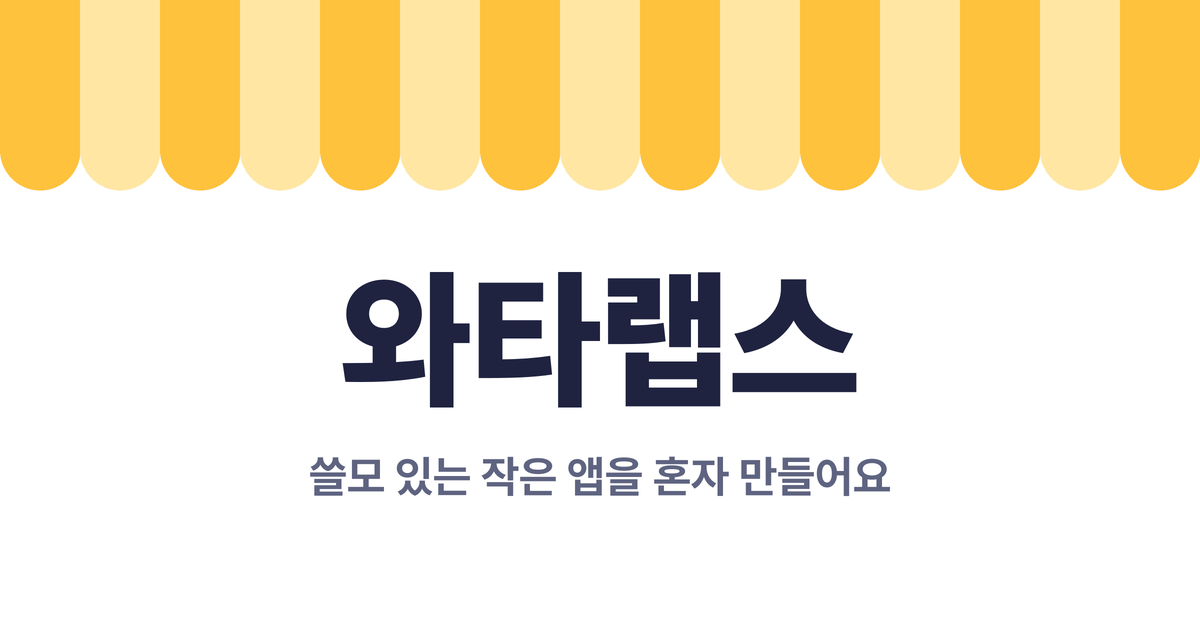
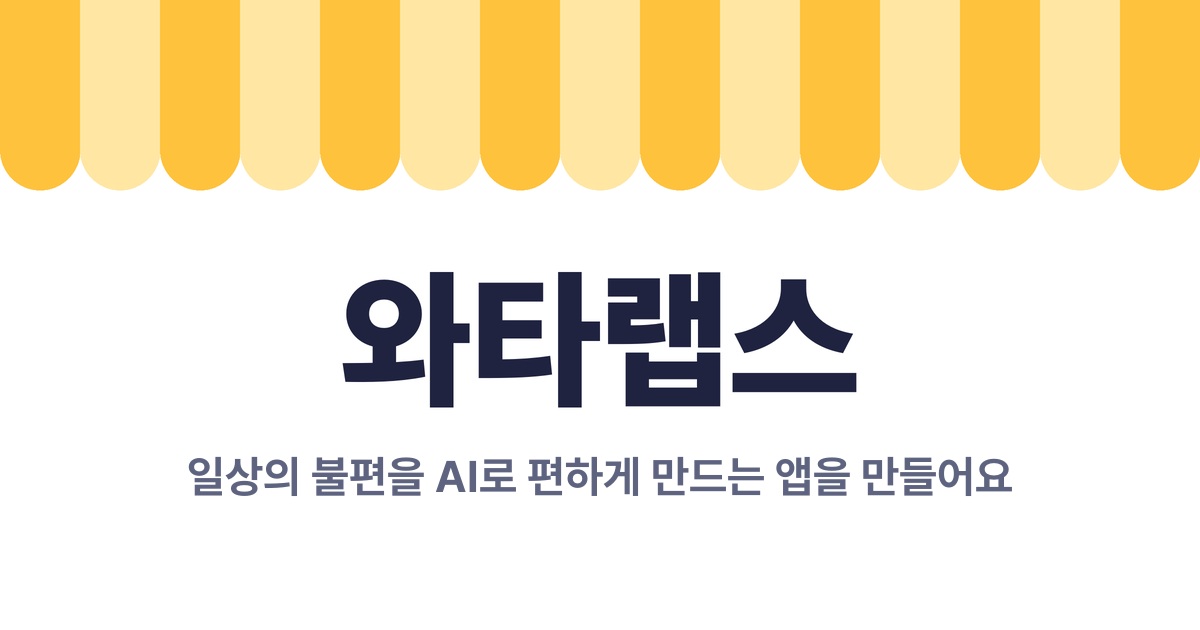
chore(company): 회사 소개에서 맹고 약관·처리방침 링크와 1인 회사 표현 빼기
- 바닥글의 맹고 이용약관·개인정보 처리방침 링크, llms.txt 주요 페이지의 두 링크 삭제(맹고 페이지는 그대로)
- 메타 설명·JSON-LD·llms.txt의 '1인 회사'·'개발자 한 명' 문구 삭제
- og.png 부제 '쓸모 있는 작은 앱을 혼자 만들어요' → '일상의 불편을 AI로 편하게 만드는 앱을 만들어요'
- sitemap lastmod 2026-10-27

Changed region(s): [[0.1542, 0.7238, 0.8633, 0.7841]]

diff --git a/apps/company/index.html b/apps/company/index.html
@@ -4,7 +4,7 @@
   <meta charset="utf-8" />
   <meta name="viewport" content="width=device-width, initial-scale=1, viewport-fit=cover" />
   <title>와타랩스</title>
-  <meta name="description" content="와타랩스는 일상에서 귀찮고 불편한 일을 찾아 AI로 편하게 만드는 앱을 만드는 1인 회사예요. 관심 분야의 소식을 AI로 요약해서 음성 지원해 주는 맹고를 만들어요." />
+  <meta name="description" content="와타랩스는 일상에서 귀찮고 불편한 일을 찾아 AI로 편하게 만드는 앱을 만드는 회사예요. 관심 분야의 소식을 AI로 요약해서 음성 지원해 주는 맹고를 만들어요." />
   <link rel="canonical" href="https://watalabs.com/" />
   <meta property="og:type" content="website" />
   <meta property="og:locale" content="ko_KR" />
@@ -34,7 +34,7 @@
         "url": "https://watalabs.com/",
         "logo": "https://watalabs.com/apple-touch-icon.png",
         "email": "watalabs.help@gmail.com",
-        "description": "일상에서 귀찮고 불편한 일을 찾아 AI로 편하게 만드는 앱을 만드는 1인 회사. 관심 분야의 소식을 AI로 요약해서 음성 지원해 주는 맹고를 만든다."
+        "description": "일상에서 귀찮고 불편한 일을 찾아 AI로 편하게 만드는 앱을 만드는 회사. 관심 분야의 소식을 AI로 요약해서 음성 지원해 주는 맹고를 만든다."
       },
       {
         "@type": "WebSite",
@@ -171,9 +171,6 @@
 
     footer { padding: 32px 0 calc(40px + env(safe-area-inset-bottom)); border-top: 2px solid var(--line); color: var(--sub); font-size: 14px; }
     footer .row { display: flex; flex-wrap: wrap; gap: 8px 20px; align-items: center; justify-content: space-between; }
-    footer nav { display: flex; flex-wrap: wrap; gap: 4px 16px; }
-    footer nav a { text-decoration: none; }
-    footer nav a:hover { text-decoration: underline; }
 
     @media (max-width: 560px) {
       .awning { --stripe: 44px; height: calc(64px + env(safe-area-inset-top)); }
@@ -251,10 +248,6 @@
   <footer>
     <div class="wrap row">
       <span>© 2026 와타랩스</span>
-      <nav aria-label="맹고 약관">
-        <a href="/maengo/terms">맹고 이용약관</a>
-        <a href="/maengo/privacy">맹고 개인정보 처리방침</a>
-      </nav>
     </div>
   </footer>
 </body>
